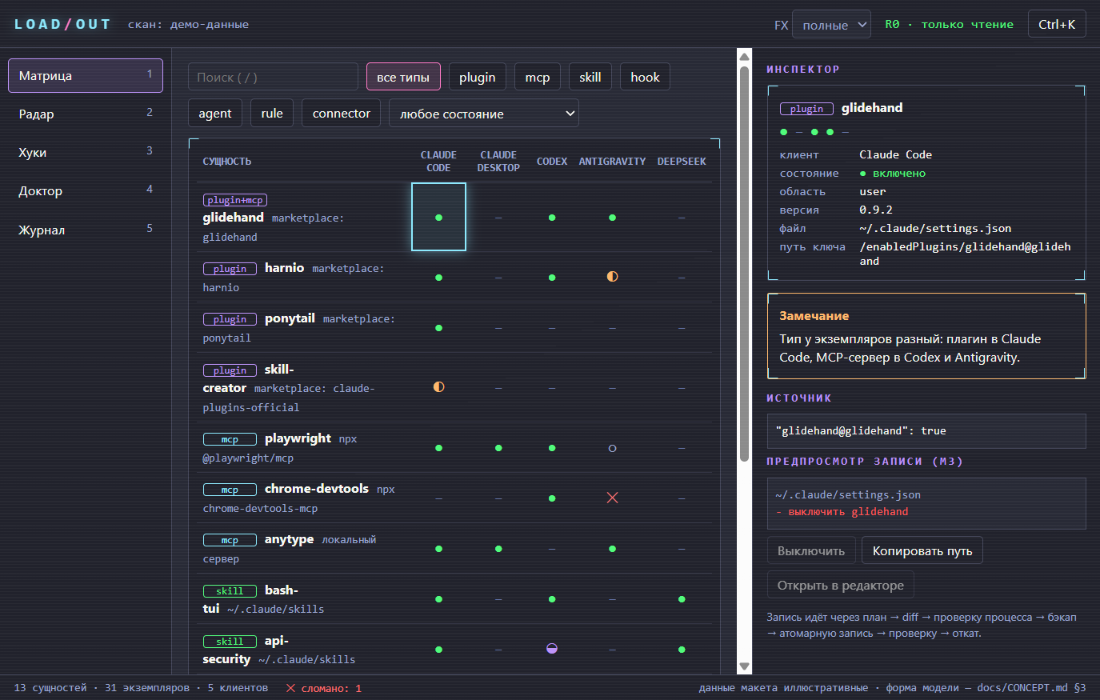
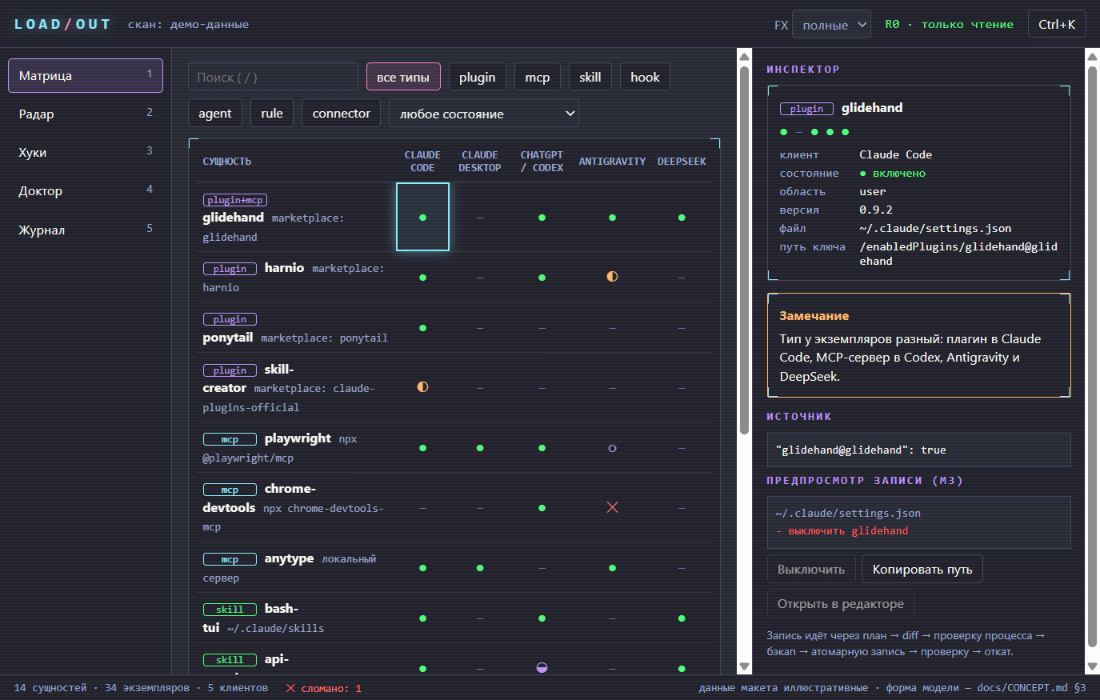
Concept: DeepSeek analyzed, ChatGPT = Codex, control levels for cloud connectors

diff --git a/mockup/index.html b/mockup/index.html
@@ -186,7 +186,7 @@ kbd{font:11px var(--mono);border:1px solid var(--line);border-bottom-width:2px;b
 "use strict";
 /* ---------- данные: форма совпадает с моделью из CONCEPT.md §3 ---------- */
 const CLIENTS=[
- {id:"cc",name:"Claude Code"},{id:"cd",name:"Claude Desktop"},{id:"cx",name:"Codex"},
+ {id:"cc",name:"Claude Code"},{id:"cd",name:"Claude Desktop"},{id:"cx",name:"ChatGPT / Codex"},
  {id:"ag",name:"Antigravity"},{id:"ds",name:"DeepSeek"}];
 const GLYPH={on:["●","включено"],off:["○","выключено"],broken:["✕","сломано"],stale:["◐","расхождение версий"],
  shadowed:["◒","перекрыто другой областью"],cloud:["☁","только в приложении"],none:["–","нет"]};
@@ -195,9 +195,10 @@ const U="~/.claude/settings.json",CJ="~/.claude.json",CT="~/.codex/config.toml",
  AG="~/.gemini/config/mcp_config.json",CD="%APPDATA%/Claude/claude_desktop_config.json";
 const ROWS=[
  {key:"glidehand",kind:"plugin",origin:"marketplace: glidehand",inst:{
-  cc:I("on","user","0.9.2",U,"/enabledPlugins/glidehand@glidehand",['"glidehand@glidehand": true'],"Тип у экземпляров разный: плагин в Claude Code, MCP-сервер в Codex и Antigravity."),
+  cc:I("on","user","0.9.2",U,"/enabledPlugins/glidehand@glidehand",['"glidehand@glidehand": true'],"Тип у экземпляров разный: плагин в Claude Code, MCP-сервер в Codex, Antigravity и DeepSeek."),
   cx:{...I("on","user","—",CT,"mcp_servers.glidehand",['[mcp_servers.glidehand]','command = "glidehand"']),kind:"mcp"},
-  ag:{...I("on","user","—",AG,"/mcpServers/glidehand",['{ "command": "glidehand" }']),kind:"mcp"}}},
+  ag:{...I("on","user","—",AG,"/mcpServers/glidehand",['{ "command": "glidehand" }']),kind:"mcp"},
+  ds:{...I("on","user","—","~/.dsh/cordis.patch.yml","[3]/insert/0  (id: mcp-glidehand)",['- insert:','    - id: mcp-glidehand','      name: "@deepseek-ai/dsh-mcp-client"','      config: { serverName: glidehand, transport: stdio, … }'],"В dsh MCP — это запись плагина dsh-mcp-client в cordis.patch.yml. Флага «выключено» у записи нет: выключение = убрать запись (копия уйдёт в корзину Loadout)."),kind:"mcp"}}},
  {key:"harnio",kind:"plugin",origin:"marketplace: harnio",inst:{
   cc:I("on","user","1.4.0",U,"/enabledPlugins/harnio@harnio",['"harnio@harnio": true']),
   cx:I("on","user","1.4.0",CT,'plugins."harnio@harnio"',['[plugins."harnio@harnio"]','enabled = true']),
@@ -236,8 +237,11 @@ const ROWS=[
  {key:"karpathy-guidelines",kind:"rule",origin:"плагин karpathy-skills",inst:{
   cx:I("on","plugin","—","~/.codex/rules/","—",["…"]),
   ag:I("on","plugin","—","~/.gemini/config/plugins/claude-kit/rules/","—",["…"])}},
- {key:"claude.ai Connectors",kind:"connector",origin:"облако",inst:{
-  cd:I("cloud","cloud","—","—","—",["Список хранится на сервере claude.ai."],"С диска не читается. Loadout не управляет облачными коннекторами.")}}
+ {key:"claude.ai Github",kind:"connector",origin:"аккаунт claude.ai",inst:{
+  cc:I("off","user","—",U,"/disableClaudeAiConnectors",['"disableClaudeAiConnectors": true'],"Все коннекторы claude.ai выключены в Claude Code одним ключом. Рубильник локальный: Desktop и аккаунт не затрагивает."),
+  cd:I("cloud","аккаунт","—","—","—",["Подключение хранится в аккаунте claude.ai."],"Источник правды — аккаунт. Подключить или отключить можно только на странице claude.ai → Customize → Connectors; Loadout откроет её в браузере.")}},
+ {key:"github (OpenAI remote)",kind:"connector",origin:"openai-curated-remote",inst:{
+  cx:I("cloud","аккаунт","—","~/.codex/plugins/cache/openai-curated-remote/github","каталог кеша",["Запись каталога удалённых плагинов (кеш)."],"Кеш каталога, а не подтверждённое подключение. Управление — в приложении ChatGPT (Settings).")}}
 ];
 const EVENTS=["SessionStart","UserPromptSubmit","PreToolUse","PermissionRequest","PostToolUse","Stop"];
 const HOOKS=[
@@ -246,7 +250,7 @@ const HOOKS=[
  {c:"cx",e:"SessionStart",n:"ponytail-init",src:"plugin: ponytail"},{c:"cx",e:"PreToolUse",n:"ctxkit",m:"Bash",src:"user"},
  {c:"cx",e:"PermissionRequest",n:"auto-allow-safe",src:"user"},{c:"cx",e:"Stop",n:"notify",src:"user"},
  {c:"ag",e:"PreToolUse",n:"ctxkit",src:"user"},{c:"ag",e:"Stop",n:"notify",src:"user"},
- {c:"ds",e:"PreToolUse",n:"ctxkit",m:"shell",src:"user"},{c:"ds",e:"PostToolUse",n:"ctxkit",src:"user"}];
+ {c:"ds",e:"PreToolUse",n:"ctxkit",m:"read|write|edit|bash|…",src:"user (ctxkit-hooks.json)"},{c:"ds",e:"PostToolUse",n:"ctxkit",m:"write|edit|apply_patch",src:"user (ctxkit-hooks.json)"}];
 const NA={cd:EVENTS,ag:["UserPromptSubmit","PermissionRequest","SessionStart","PostToolUse"],ds:["SessionStart","UserPromptSubmit","PermissionRequest","Stop"]};
 const DEMO_SECRET="demo-not-a-real-secret";
 
@@ -345,7 +349,7 @@ function renderInspector(){
  ${x.state==="cloud"?"":`<h2>Предпросмотр записи (M3)</h2>
  <pre><span class="mute">${esc(x.file)}</span>\n<span class="${x.state==="off"?"add":"del"}">${x.state==="off"?"+ включить":"- выключить"} ${esc(r.key)}</span></pre>`}
  <div style="display:flex;gap:6px;flex-wrap:wrap">
-  ${x.state==="cloud"?"":`<button disabled title="Запись включается с M3 (CONCEPT.md §5)">${x.state==="off"?"Включить":"Выключить"}</button>`}
+  ${x.state==="cloud"?`<button disabled title="Откроет страницу управления в браузере (CONCEPT.md §5.1, уровень C2)">Открыть управление в браузере</button>`:`<button disabled title="Запись включается с M3 (CONCEPT.md §5)">${x.state==="off"?"Включить":"Выключить"}</button>`}
   <button id="cp">Копировать путь</button><button disabled title="M2">Открыть в редакторе</button></div>
  <p class="mute" style="font-size:11px;margin-top:10px">Запись идёт через план → diff → проверку процесса → бэкап → атомарную запись → проверку → откат.</p>`;
  const rev=$("#rev");

diff --git a/docs/CONCEPT.md b/docs/CONCEPT.md
@@ -12,13 +12,13 @@
 Цель: за один взгляд видеть, **что где установлено, включено и сломано**, и безопасно этим управлять.
 
 Не цели (v1):
-- Облачные коннекторы claude.ai / ChatGPT. Их список лежит на сервере, с диска не читается. Покажем плашку «только в приложении» и ссылку, управлять не обещаем.
+- Управление облачными коннекторами на уровне аккаунта (подключить/отключить в claude.ai или ChatGPT). Публичного API нет, подробности и что всё-таки можно сделать — §5.1.
 - Установка плагинов из маркетплейсов. Это дело самих клиентов.
 - macOS и Linux. Пути абстрагируем сразу, но тестируем и собираем Windows 11. WSL-проекты (в `config.toml` Codex есть `\\wsl.localhost\...`) — после v1.
 
 ## 2. Какие клиенты и что про них известно
 
-«ChatGPT desktop» отдельно на машине не найден: есть только Store-пакет `OpenAI.Codex_…` **[проверено]**. Поэтому в v1 клиент называется «Codex (ChatGPT-экосистема)». Если у владельца есть отдельный ChatGPT-клиент, добавим адаптер по тому же шаблону.
+**ChatGPT desktop и Codex — это одно приложение на этой машине.** В меню Пуск пункт «ChatGPT» запускает Store-пакет `OpenAI.Codex_…` (`app\ChatGPT.exe`, запущенные процессы называются `ChatGPT`) **[проверено: `Get-StartApps`, `Get-AppxPackage`, `Get-Process`]**. Его конфиг — `~/.codex`. Отдельного второго клиента OpenAI не найдено, поэтому в интерфейсе столбец называется «ChatGPT / Codex», адаптер — `codex`. Рядом стоит сторонняя оболочка «Codex Web GPT» 5.0.8 (данные в `%APPDATA%\Codex Web GPT`, Electron); её форматы не разбирал и в v1 не поддерживаю. Если вы поставили что-то ещё, назовите, как оно называется в меню Пуск.
 
 | Клиент | Сущность | Где лежит | Формат | Статус знания |
 |---|---|---|---|---|
@@ -42,9 +42,12 @@
 | | скилы | `~/.gemini/config/skills/`, встроенные `~/.gemini/antigravity/builtin/skills` | MD | проверено |
 | | CLI | `~/.gemini/antigravity-cli/settings.json` (`permissions`, `trustedWorkspaces`, …) | JSON | проверено |
 | | `~/.gemini/antigravity/mcp/<сервер>/<tool>.json` | похоже на кеш схем инструментов, не конфиг | JSON | гипотеза |
-| **DeepSeek harness (dsh)** | скилы | `~/.dsh/skills/<имя>/` | MD | проверено |
-| | хуки | `~/.dsh/ctxkit-hooks.json` → `hooks` | JSON | проверено (ключ) |
-| | MCP | `~/.dsh/rea-ida-mcp.json`; основной конфиг, вероятно, `~/.dsh/cordis.patch.yml` | JSON / YAML | гипотеза |
+| **DeepSeek harness (dsh)** | плагины и MCP | `~/.dsh/cordis.patch.yml`: YAML-список операций, сейчас только `insert`. Каждая запись — экземпляр плагина `{id, name:"@deepseek-ai/<плагин>", config:{…}}`. MCP — это плагин `@deepseek-ai/dsh-mcp-client` с `config:{serverName, transport:"stdio", command, args, env?, cwd?, toolCallTimeoutMs, reconnect:{enabled, maxAttempts}}`. Сейчас пять записей: `mcp-ida`, `mcp-netatlas`, `mcp-glidehand`, `rea-mcp` и хуки `orca-agent-hooks`. В файле есть нестандартный тег `!!js process.cwd()` | YAML + теги | проверено (структура по именам ключей; значения секретов не выводил) |
+| | хуки | запись `@deepseek-ai/dsh-hooks-claude-code` с `config.configPath`, который указывает на JSON в формате хуков Claude Code: `~/.dsh/ctxkit-hooks.json` → `hooks.PreToolUse / PostToolUse`, у каждого `matcher` по именам инструментов dsh (`read\|write\|edit\|apply_patch\|bash\|pwsh`) | JSON | проверено |
+| | профили | `~/.dsh/profiles/{default, desktop, headless, tui, web, acp, …}`; в `profiles/default` свой `cordis.patch.yml` (217 Б, не совпадает с корневым) и `cordis.yml` (223 Б). Какой файл когда применяется — не выяснено | YAML | гипотеза |
+| | провайдеры, модель | `~/.dsh/settings.yaml.imported`: `llm-pi-ai.providers.*` (ключи только как `apiKeyEnv`, то есть имена переменных окружения), `agent-default-model`, `agent-presets` | YAML | проверено (ключи) |
+| | отдельный фрагмент MCP | `~/.dsh/rea-ida-mcp.json` — `{command, args}` одного сервера (похоже на заготовку, из которой собрана запись `ida`) | JSON | гипотеза про назначение |
+| | скилы | `~/.dsh/skills/<имя>/` (62 каталога), плюс `~/.dsh/vendor/ponytail` | MD | проверено |
 | | память, инструкции | `~/.dsh/memory/`, `~/.dsh/AGENTS.md` | MD | проверено |
 | | TUI-настройки | `~/.dsh-tui/settings.json` (`version, values, imported`) | JSON | проверено |
 | | секреты | `~/.dsh/.credentials.yaml` | YAML | **никогда не читаем** |
@@ -93,7 +96,7 @@ Entity {
 
 В макете (`mockup/index.html`) работают пункты 1–5 и 7; Журнал (6) — заглушка.
 
-1. **Матрица (главный экран).** Строки — логические сущности, столбцы — клиенты, в ячейке — глиф состояния. Видно сразу: glidehand есть как плагин в Claude Code и как MCP в Codex и Antigravity; есть ли он в DeepSeek, надо проверить в M0 (упоминания лежат в `cordis.patch.yml`, структуру файла я не разобрал). Фильтры по типу и состоянию, поиск, группировка по происхождению (плагин/маркетплейс). Строка раскрывается в экземпляры по областям.
+1. **Матрица (главный экран).** Строки — логические сущности, столбцы — клиенты, в ячейке — глиф состояния. Видно сразу: glidehand есть как плагин в Claude Code и как MCP в Codex, Antigravity и DeepSeek (запись `mcp-glidehand` в `cordis.patch.yml`). Фильтры по типу и состоянию, поиск, группировка по происхождению (плагин/маркетплейс). Строка раскрывается в экземпляры по областям.
 2. **Радар.** Обзор: кольцо на клиент с числом сущностей по типам, пульс «здоров / есть проблемы», список проблем справа. Это «HUD»-экран, но не просто украшение: клик по сектору ведёт в матрицу с готовым фильтром.
 3. **Инспектор (правая панель).** Источник (файл и строка/путь ключа), сырой фрагмент с маскированием, что произойдёт при изменении (diff до записи), кнопки «открыть в редакторе», «показать в папке», «копировать путь».
 4. **Хуки: конвейер.** Жизненный цикл `SessionStart → UserPromptSubmit → PreToolUse → PermissionRequest → PostToolUse → Stop` по дорожкам клиентов; на каждом шаге — хуки в порядке выполнения, с matcher и источником (user / project / плагин). События разных клиентов сопоставляются по таблице соответствия, непарные помечаются.
@@ -105,7 +108,7 @@ Entity {
    | Codex | `SessionStart, UserPromptSubmit, PreToolUse, PermissionRequest, PostToolUse, SubagentStart, SubagentStop, Stop, Interrupt` | проверено (`~/.codex/hooks.json`) |
    | Claude Code | в `settings.json` сейчас используются `SessionStart, PreToolUse, PostToolUse`; полный набор событий клиента не проверен | частично |
    | Antigravity | схема `~/.gemini/config/hooks.json` не разобрана | гипотеза |
-   | DeepSeek | схема `~/.dsh/ctxkit-hooks.json` не разобрана | гипотеза |
+   | DeepSeek | `PreToolUse`, `PostToolUse` (файл `ctxkit-hooks.json`, формат как у Claude Code); других событий в нём нет, полный набор клиента не проверен | частично |
    | Claude Desktop (чат) | хуков на диске не найдено | не найдено |
 
    Шкала в макете (дорожки, штриховка «нет события») — иллюстрация формы, не данные.
@@ -143,6 +146,21 @@ Entity {
 
 Запуск чужих команд:
 - Проверка MCP («поднять и спросить tools/list») **выполняет команду из конфига**, поэтому только по явной кнопке на конкретном сервере, с таймаутом 5 с и в отдельном процессе. Массовой проверки нет.
+
+### 5.1 Облачные коннекторы: что можно читать и чем управлять
+
+Коннектор хранится в аккаунте (claude.ai, ChatGPT), а не в файле. Поэтому управление разбито на три уровня честности:
+
+| Уровень | Что делаем | Основание | Версия |
+|---|---|---|---|
+| **C0. Инвентарь** | Показываем то, что осталось на диске. Claude Code: `~/.claude.json` → `claudeAiMcpEverConnected` — список имён вида `claude.ai Github` (у меня три: Claude Docs, Atlassian, Github) **[проверено]**. Это «когда-либо подключались», а не текущее состояние. ChatGPT/Codex: каталог удалённых плагинов в `~/.codex/plugins/cache/openai-curated-remote/` (`app-…`, `github`, `plugin-management`, `visualize`, `work-pets`) **[проверено]**. Это кеш каталога | диск | M1 |
+| **C1. Локальные рубильники** | Claude Code: ключ `disableClaudeAiConnectors` в `settings.json` выключает все коннекторы claude.ai разом (на этой машине сейчас `true`, значит они отключены **[проверено]**). По одному: добавить имя в `deniedMcpServers` либо переключить в `/mcp` на проект. Работает только для Claude Code (терминал, VS Code, JetBrains, SDK): Desktop и облачные сессии не затрагивает. Codex: в документации-зеркале есть `[apps.<имя>] enabled`; на этой машине секции `[apps*]` нет | документация Claude Code (`mcp.md`, `settings-reference.md`); `deniedMcpServers` в моём `settings.json` отсутствует, а где `/mcp` хранит переключатель, документация не говорит. **[гипотеза, проверить в M0]** | M3 (общий конвейер записи) |
+| **C2. Аккаунт** | Реальное подключение/отключение коннектора. Публичного API или CLI не нашёл ни у Anthropic, ни у OpenAI. Что можно: кнопка «Открыть управление» ведёт в браузер на страницу настроек (claude.ai → Customize → Connectors; ChatGPT → Settings → Apps/Plugins). Автоматизировать клики в браузере пользователя возможно, но хрупко (вёрстка меняется), и это уже действие от имени пользователя в его аккаунте | документация Claude Code, справка OpenAI | ссылка — M1; автоматизация — только после v1, по явной кнопке с предпросмотром |
+
+Решения:
+- Приватные эндпоинты с cookie или токенами сессии **не используем никогда**: это обход, а не интеграция, и риск блокировки аккаунта.
+- В интерфейсе у облачного коннектора две честные кнопки: «Выключить в Claude Code» (C1, если подтвердится в M0) и «Открыть управление в браузере» (C2). Кнопки «выключить в аккаунте» не будет, пока нет поддерживаемого способа.
+- Состояние `cloud` в матрице всегда показывает, где лежит источник правды (аккаунт), и отдельно — локальный рубильник, если он есть.
 
 ## 6. Архитектура
 
@@ -243,8 +261,9 @@ HUD-эффекты — только то, что дёшево:
 
 - **Форматы неофициальные.** Любой апдейт клиента может их поменять. Смягчение: версия адаптера, `unknown` вместо падения, golden-тесты.
 - **Клиент перезапишет наш файл.** Для этого проверка процесса и оптимистичная блокировка; полностью исключить гонку нельзя.
-- **DeepSeek harness:** где именно живут его MCP и плагины, не подтверждено. До M0 адаптер показывает только скилы, хуки и инструкции.
-- **ChatGPT desktop:** не найден, см. §2.
+- **DeepSeek harness:** формат разобран (§2), но у записей `cordis.patch.yml` не видно флага «выключено»: есть только `reconnect.enabled`. Поэтому «выключить» для dsh, вероятно, означает убрать запись из файла. Loadout кладёт её копию в свою корзину и возвращает при включении. Схему `dsh-mcp-client` (какие ключи он допускает) надо проверить по его пакету в M0: на диске в `dsh-runtimes` и `vendor` я его не нашёл.
+- **Файл `cordis.patch.yml` пишут многие.** Рядом лежат бэкапы от `glidehand`, `sparehand`, `netatlas`, `rea`, `orca`: установщики этих инструментов сами правят файл. Значит, гонка записей реальна, а оптимистичная блокировка по хешу (§5) обязательна, и формат YAML с тегом `!!js` нельзя перезаписывать целиком. Правка — только точечная по тексту.
+- **ChatGPT desktop:** на машине это и есть приложение `OpenAI.Codex` (§2).
 - **`antigravity/mcp/*/*.json`:** возможно кеш схем, а не конфиг. Не пишем в него никогда.
 - **Копирование сущности между клиентами** (M4) требует трансляции форматов (например, MCP из JSON в TOML). Для хуков семантика событий различается, переносим только совпадающие события и честно показываем потери.
 
